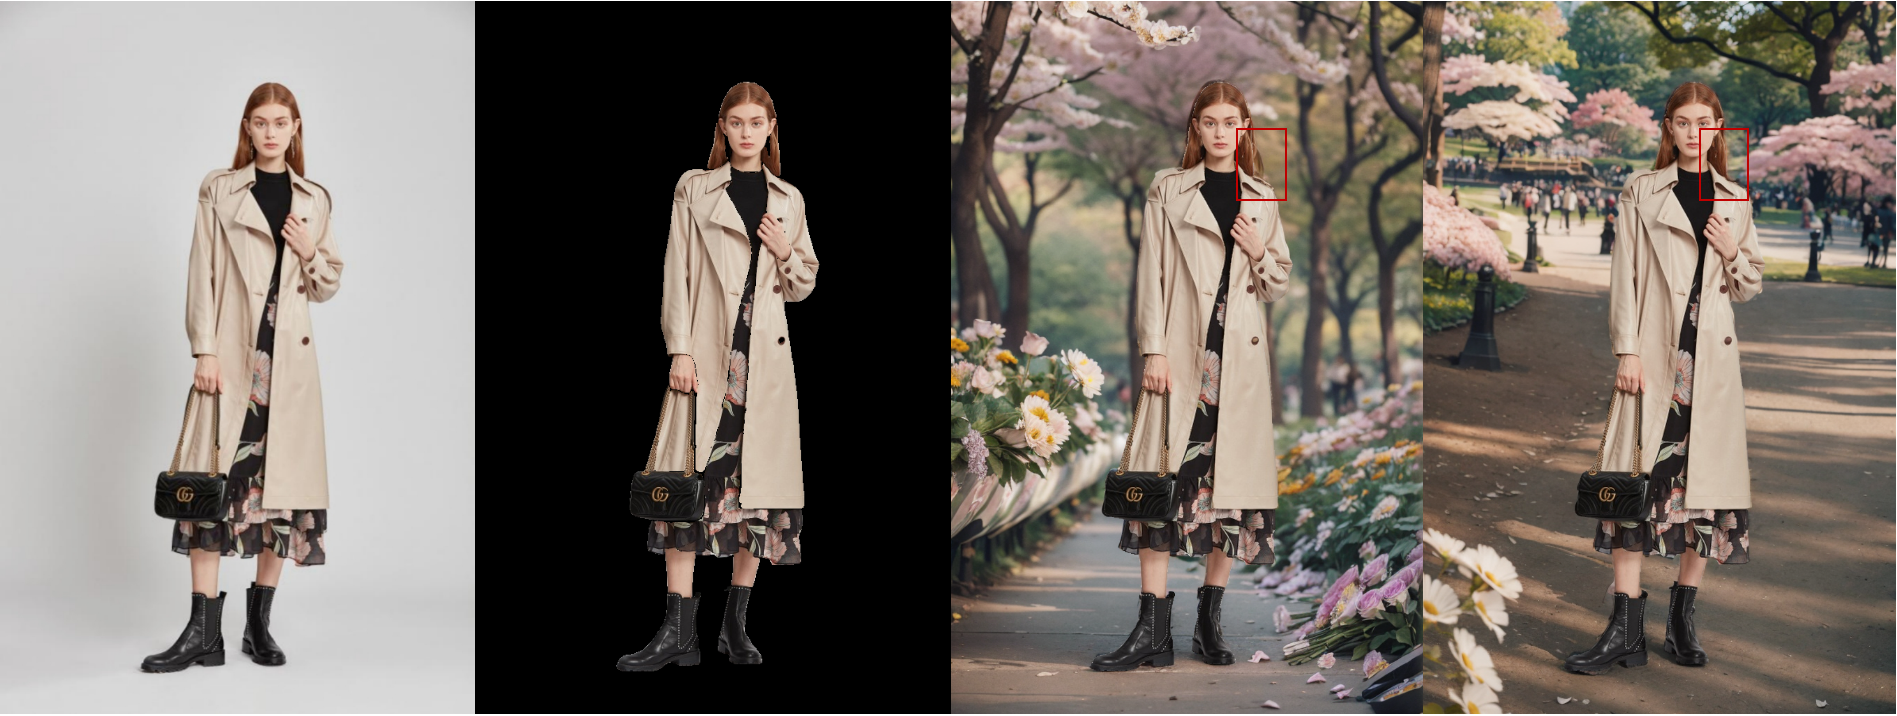
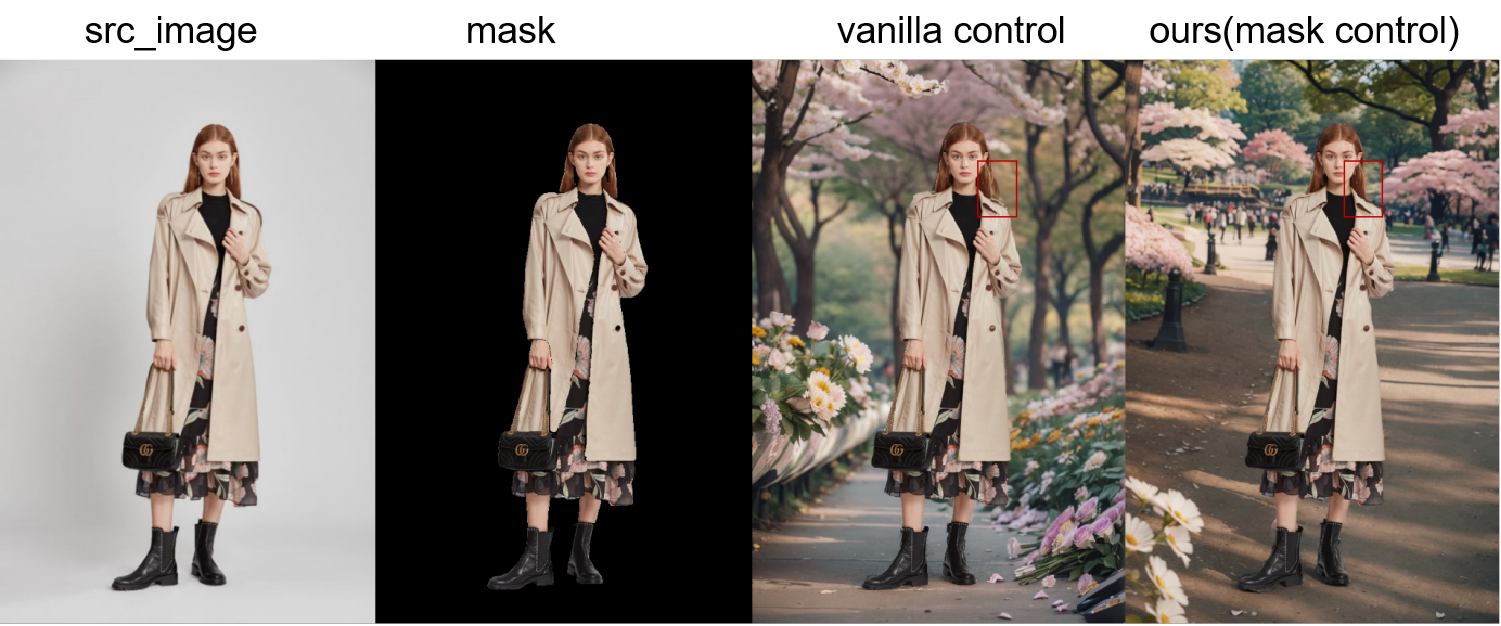
add jingyun_inpainting_2|modify control img

diff --git a/index.md b/index.md
@@ -32,7 +32,8 @@ layout: about
     <img src="./assets/img/bangbao_inpainting.png" height=400>  
     (AIGC)IP模特-2:        
     <img src="./assets/img/jingyun_text2img.png" height=300>  
-    <img src="./assets/img/jingyun_inpainting.png" height=400> 
+    <img src="./assets/img/jingyun_inpainting.png" height=400>  
+    <img src="./assets/img/jingyun_inpainting_2.png" height=400>
 
     (AIGC)可控生成:    
     <img src="./assets/img/control.png" height=400>
